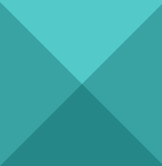
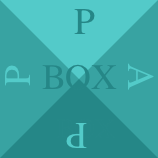
New Version

diff --git a/www/index.html b/www/index.html
@@ -5,7 +5,7 @@
 <!--<![endif]-->
 <head>
 	<meta charset="utf-8" />
-	<title>Color Admin | One Page Parallax Front End Theme</title>
+	<title>PAPA BOX | PATERNITY SERVICES</title>
 	<meta content="width=device-width, initial-scale=1.0, maximum-scale=1.0, user-scalable=no" name="viewport" />
 	<meta content="" name="description" />
 	<meta content="" name="author" />
@@ -41,7 +41,7 @@
                     <a href="index.html" class="navbar-brand">
                         <span class="brand-logo"></span>
                         <span class="brand-text">
-                            <span class="text-theme">Color</span> Admin
+                            <span class="text-theme">PAPA</span> BOX
                         </span>
                     </a>
                 </div>
@@ -82,11 +82,11 @@
             <!-- end content-bg -->
             <!-- begin container -->
             <div class="container home-content">
-                <h1>Welcome to Color Admin</h1>
-                <h3>Multipurpose One Page Theme</h3>
+                <h1>Welcome to PAPA BOX</h1>
+                <h3>Paternity Simplified</h3>
                 <p>
-                    We have created a multi-purpose theme that take the form of One-Page or Multi-Page Version.<br />
-                    Use our <a href="#">theme panel</a> to select your favorite theme color.
+                        We have created a multi purpous solution that let you care about what is most important for you .<br>
+                    Check our <a href="#">solutions panel</a> to benefit of our PAPA BOXES.
                 </p>
                 <a href="#" class="btn btn-theme">Explore More</a> <a href="#" class="btn btn-outline">Purchase Now</a><br />
                 <br />
@@ -102,8 +102,8 @@
             <div class="container" data-animation="true" data-animation-type="fadeInDown">
                 <h2 class="content-title">About Us</h2>
                 <p class="content-desc">
-                    Lorem ipsum dolor sit amet, consectetur adipiscing elit. Vestibulum consectetur eros dolor,<br />
-                    sed bibendum turpis luctus eget
+                    We are a company that aims to connect people with services, in order to permit them to benefit of a high end quality services, with the most interesting price possible,<br>
+                    that saves your money, and your time to let you concentrate on what it's most important for you.
                 </p>
                 <!-- begin row -->
                 <div class="row">
@@ -113,18 +113,7 @@
                         <div class="about">
                             <h3>Our Story</h3>
                             <p>
-                                Lorem ipsum dolor sit amet, consectetur adipiscing elit. 
-                                Vestibulum posuere augue eget ante porttitor fringilla. 
-                                Aliquam laoreet, sem eu dapibus congue, velit justo ullamcorper urna, 
-                                non rutrum dolor risus non sapien. Vivamus vel tincidunt quam. 
-                                Donec ultrices nisl ipsum, sed elementum ex dictum nec. 
-                            </p>
-                            <p>
-                                In non libero at orci rutrum viverra at ac felis. 
-                                Curabitur a efficitur libero, eu finibus quam. 
-                                Pellentesque pretium ante vitae est molestie, ut faucibus tortor commodo. 
-                                Donec gravida, eros ac pretium cursus, est erat dapibus quam, 
-                                sit amet dapibus nisl magna sit amet orci. 
+                               Ambitious group of engineers that aims to transform how the society works. And let them concentrate on what it's most important for them.
                             </p>
                         </div>
                         <!-- end about -->
@@ -137,16 +126,15 @@
                         <div class="about-author">
                             <div class="quote bg-silver">
                                 <i class="fa fa-quote-left"></i>
-                                <h3>We work harder,<br /><span>to let our user keep simple</span></h3>
+                                <h3>
+                            <br><span> Get the Quality service you deserve, with the most accurate cost that you can afford.</span></h3>
                                 <i class="fa fa-quote-right"></i>
                             </div>
                             <div class="author">
                                 <div class="image">
                                     <img src="assets/img/user/user-1.jpg" alt="Sean Ngu" />
                                 </div>
-                                <div class="info">
-                                    Sean Ngu
-                                    <small>Front End Developer</small>
+                                <div class="info">Soufiane CHERRADI<small>Co-Founder</small>
                                 </div>
                             </div>
                         </div>
@@ -155,7 +143,7 @@
                     <!-- end col-4 -->
                     <!-- begin col-4 -->
                     <div class="col-md-4 col-sm-12">
-                        <h3>Our Experience</h3>
+                        <h3>Our Expertise</h3>
                         <!-- begin skills -->
                         <div class="skills">
                             <div class="skills-name">Front End</div>
@@ -262,7 +250,7 @@
                                 <img src="assets/img/user/user-1.jpg" alt="Ryan Teller" />
                             </div>
                             <div class="info">
-                                <h3 class="name">Ryan Teller</h3>
+                                <h3 class="name">Soufiane CHERRADI</h3>
                                 <div class="title text-theme">FOUNDER</div>
                                 <p>Lorem ipsum dolor sit amet, consectetuer adipiscing elit. Aenean commodo ligula eget dolor.</p>
                                 <div class="social">
@@ -283,7 +271,7 @@
                                 <img src="assets/img/user/user-2.jpg" alt="Jonny Cash" />
                             </div>
                             <div class="info">
-                                <h3 class="name">Johnny Cash</h3>
+                                <h3 class="name">JEAN-NOEL PAILLARD</h3>
                                 <div class="title text-theme">WEB DEVELOPER</div>
                                 <p>Donec quam felis, ultricies nec, pellentesque eu sem. Nulla consequat massa quis enim.</p>
                                 <div class="social">
@@ -291,28 +279,7 @@
                                     <a href="#"><i class="fa fa-twitter fa-lg fa-fw"></i></a>
                                     <a href="#"><i class="fa fa-google-plus fa-lg fa-fw"></i></a>
                                 </div>
-                            </div>                     
-                        </div>
-                        <!-- end team -->
-                    </div>
-                    <!-- end col-4 -->
-                    <!-- begin col-4 -->
-                    <div class="col-md-4 col-sm-4">
-                        <!-- begin team -->
-                        <div class="team">             
-                            <div class="image" data-animation="true" data-animation-type="flipInX">
-                                <img src="assets/img/user/user-3.jpg" alt="Mia Donovan" />
-                            </div>
-                            <div class="info">
-                                <h3 class="name">Mia Donovan</h3>
-                                <div class="title text-theme">WEB DESIGNER</div>
-                                <p>Phasellus viverra nulla ut metus varius laoreet. Quisque rutrum. Aenean imperdiet. </p>
-                                <div class="social">
-                                    <a href="#"><i class="fa fa-facebook fa-lg fa-fw"></i></a>
-                                    <a href="#"><i class="fa fa-twitter fa-lg fa-fw"></i></a>
-                                    <a href="#"><i class="fa fa-google-plus fa-lg fa-fw"></i></a>
-                                </div>
-                            </div>                     
+                            </div>                           
                         </div>
                         <!-- end team -->
                     </div>
@@ -337,10 +304,9 @@
                 <div class="row">
                     <!-- begin col-12 -->
                     <div class="col-md-12 quote">
-                        <i class="fa fa-quote-left"></i> Passion leads to design, design leads to performance, <br />
-                        performance leads to <span class="text-theme">success</span>!  
+                        <i class="fa fa-quote-left"></i> When you have a new born, you need to be close to your child rather than wasting time on things that are not very important at this exact time... So, we do the Job for you. <br><span class="text-theme">Cerenity Garanteed.</span>!  
                         <i class="fa fa-quote-right"></i>
-                        <small>Sean Themes, Developer Teams in Malaysia</small>
+                        <small>Jean-Noel PAILLARD.</small>
                     </div>
                     <!-- end col-12 -->
                 </div>
@@ -366,8 +332,8 @@
                         <div class="service">
                             <div class="icon bg-theme" data-animation="true" data-animation-type="bounceIn"><i class="fa fa-cog"></i></div>
                             <div class="info">
-                                <h4 class="title">Easy to Customize</h4>
-                                <p class="desc">Duis in lorem placerat, iaculis nisi vitae, ultrices tortor. Vestibulum molestie ipsum nulla. Maecenas nec hendrerit eros, sit amet maximus leo.</p>
+                                <h4 class="title">Paternity Advice.</h4>
+                                <p class="desc">We give you all the advices that you need when you have a new born. </p>
                             </div>
                         </div>
                     </div>
@@ -377,7 +343,7 @@
                         <div class="service">
                             <div class="icon bg-theme" data-animation="true" data-animation-type="bounceIn"><i class="fa fa-paint-brush"></i></div>
                             <div class="info">
-                                <h4 class="title">Clean & Careful Design</h4>
+                                <h4 class="title">Notifications and Alerts</h4>
                                 <p class="desc">Etiam nulla turpis, gravida et orci ac, viverra commodo ipsum. Donec nec mauris faucibus, congue nisi sit amet, lobortis arcu.</p>
                             </div>
                         </div>
@@ -388,7 +354,7 @@
                         <div class="service">
                             <div class="icon bg-theme" data-animation="true" data-animation-type="bounceIn"><i class="fa fa-file"></i></div>
                             <div class="info">
-                                <h4 class="title">Well Documented</h4>
+                                <h4 class="title">Administration Processes</h4>
                                 <p class="desc">Ut vel laoreet tortor. Donec venenatis ex velit, eget bibendum purus accumsan cursus. Curabitur pulvinar iaculis diam.</p>
                             </div>
                         </div>
@@ -403,7 +369,7 @@
                         <div class="service">
                             <div class="icon bg-theme" data-animation="true" data-animation-type="bounceIn"><i class="fa fa-code"></i></div>
                             <div class="info">
-                                <h4 class="title">Re-usable Code</h4>
+                                <h4 class="title">Nurse Services</h4>
                                 <p class="desc">Aenean et elementum dui. Aenean massa enim, suscipit ut molestie quis, pretium sed orci. Ut faucibus egestas mattis.</p>
                             </div>
                         </div>
@@ -414,7 +380,7 @@
                         <div class="service">
                             <div class="icon bg-theme" data-animation="true" data-animation-type="bounceIn"><i class="fa fa-shopping-cart"></i></div>
                             <div class="info">
-                                <h4 class="title">Online Shop</h4>
+                                <h4 class="title">Delivery services</h4>
                                 <p class="desc">Quisque gravida metus in sollicitudin feugiat. Class aptent taciti sociosqu ad litora torquent per conubia nostra, per inceptos himenaeos.</p>
                             </div>
                         </div>
@@ -425,7 +391,7 @@
                         <div class="service">
                             <div class="icon bg-theme" data-animation="true" data-animation-type="bounceIn"><i class="fa fa-heart"></i></div>
                             <div class="info">
-                                <h4 class="title">Free Support</h4>
+                                <h4 class="title">Baby Stuff</h4>
                                 <p class="desc">Integer consectetur, massa id mattis tincidunt, sapien erat malesuada turpis, nec vehicula lacus felis nec libero. Fusce non lorem nisl.</p>
                             </div>
                         </div>
@@ -677,100 +643,93 @@
         </div>
         <!-- end #client -->
         
-        <!-- begin #pricing -->
+      <!-- begin #pricing -->
         <div id="pricing" class="content" data-scrollview="true">
             <!-- begin container -->
             <div class="container">
                 <h2 class="content-title">Our Price</h2>
                 <p class="content-desc">
-                    Lorem ipsum dolor sit amet, consectetur adipiscing elit. Vestibulum consectetur eros dolor,<br />
+                    Lorem ipsum dolor sit amet, consectetur adipiscing elit. Vestibulum consectetur eros dolor,<br>
                     sed bibendum turpis luctus eget
                 </p>
                 <!-- begin pricing-table -->
                 <ul class="pricing-table col-4">
-                    <li data-animation="true" data-animation-type="fadeInUp">
+                    <li data-animation="true" data-animation-type="fadeInUp" class="fadeInUp contentAnimated finishAnimated">
                         <div class="pricing-container">
-                            <h3>Starter</h3>
+                            <h3>Entry Pack</h3>
                             <div class="price">
                                 <div class="price-figure">
-                                    <span class="price-number">FREE</span>
+                                    <span class="price-number">49 €</span>
                                 </div>
                             </div>
                             <ul class="features">
-                                <li>1GB Storage</li>
-                                <li>2 Clients</li>
-                                <li>5 Active Projects</li>
-                                <li>5 Colors</li>
+                                <li>Advice</li>
+                                <li>Administration</li>
+                                <li>3 times medicines Delivery.</li>
+                                <li>1 times Food Delivery</li>
                                 <li>Free Goodies</li>
                                 <li>24/7 Email support</li>
                             </ul>
                             <div class="footer">
-                                <a href="#" class="btn btn-inverse btn-block">Buy Now</a>
+                                <a href="file:///Users/StanisCOURREGES2/Desktop/caducee/PAPABOX/www/index.html#" class="btn btn-inverse btn-block">Buy Now</a>
                             </div>
                         </div>
                     </li>
-                    <li data-animation="true" data-animation-type="fadeInUp">
+                    <li data-animation="true" data-animation-type="fadeInUp" class="fadeInUp contentAnimated finishAnimated">
                         <div class="pricing-container">
-                            <h3>Basic</h3>
+                            <h3>Medium</h3>
                             <div class="price">
                                 <div class="price-figure">
-                                    <span class="price-number">$9.99</span>
-                                    <span class="price-tenure">per month</span>
+                                    <span class="price-number">149€</span>
+                                    <span class="price-tenure">4 days</span>
                                 </div>
                             </div>
                             <ul class="features">
-                                <li>2GB Storage</li>
-                                <li>5 Clients</li>
-                                <li>10 Active Projects</li>
-                                <li>10 Colors</li>
-                                <li>Free Goodies</li>
+                                <li>Advices, Notifications and Alerts</li>
+                                <li>10 times Medicines delivery</li>
+                                <li>5 times Food Delivery</li>
+                                <li>1 laundry service</li>
+                                <li>Administration</li>
                                 <li>24/7 Email support</li>
                             </ul>
                             <div class="footer">
-                                <a href="#" class="btn btn-inverse btn-block">Buy Now</a>
+                                <a href="file:///Users/StanisCOURREGES2/Desktop/caducee/PAPABOX/www/index.html#" class="btn btn-inverse btn-block">Buy Now</a>
                             </div>
                         </div>
                     </li>
-                    <li class="highlight" data-animation="true" data-animation-type="fadeInUp">
+                    <li class="highlight fadeInUp contentAnimated finishAnimated" data-animation="true" data-animation-type="fadeInUp">
                         <div class="pricing-container">
                             <h3>Premium</h3>
                             <div class="price">
                                 <div class="price-figure">
-                                    <span class="price-number">$19.99</span>
-                                    <span class="price-tenure">per month</span>
+                                    <span class="price-number">249€</span>
+                                    <span class="price-tenure">1 week</span>
                                 </div>
                             </div>
                             <ul class="features">
-                                <li>5GB Storage</li>
-                                <li>10 Clients</li>
-                                <li>20 Active Projects</li>
-                                <li>20 Colors</li>
-                                <li>Free Goodies</li>
+                                <li>Advices, Notifications and Alerts</li>
+                                <li>Unlimited Medicines Delivery</li>
+                                <li>High quality food. 10 deliveries.</li>
+                                <li>Nurse services.</li>
+                                <li>2 Laundry services</li>
                                 <li>24/7 Email support</li>
                             </ul>
                             <div class="footer">
-                                <a href="#" class="btn btn-theme btn-block">Buy Now</a>
+                                <a href="file:///Users/StanisCOURREGES2/Desktop/caducee/PAPABOX/www/index.html#" class="btn btn-theme btn-block">Buy Now</a>
                             </div>
                         </div>
                     </li>
-                    <li data-animation="true" data-animation-type="fadeInUp">
+                    <li data-animation="true" data-animation-type="fadeInUp" class="fadeInUp contentAnimated finishAnimated">
                         <div class="pricing-container">
-                            <h3>Lifetime</h3>
+                            <h3>Card Choice</h3>
                             <div class="price">
                                 <div class="price-figure">
-                                    <span class="price-number">$999</span>
+                                    <span class="price-number">Contact us for more info.</span>
                                 </div>
                             </div>
-                            <ul class="features">
-                                <li>Unlimited Storage</li>
-                                <li>Unlimited Clients</li>
-                                <li>Unlimited Projects</li>
-                                <li>Unlimited Colors</li>
-                                <li>Free Goodies</li>
-                                <li>24/7 Email support</li>
-                            </ul>
+                            
                             <div class="footer">
-                                <a href="#" class="btn btn-inverse btn-block">Buy Now</a>
+                                <a href="file:///Users/StanisCOURREGES2/Desktop/caducee/PAPABOX/www/index.html#" class="btn btn-inverse btn-block">Buy Now</a>
                             </div>
                         </div>
                     </li>
@@ -779,6 +738,7 @@
             <!-- end container -->
         </div>
         <!-- end #pricing -->
+
         
         <!-- begin #contact -->
         <div id="contact" class="content bg-silver-lighter" data-scrollview="true">
@@ -786,8 +746,7 @@
             <div class="container">
                 <h2 class="content-title">Contact Us</h2>
                 <p class="content-desc">
-                    Lorem ipsum dolor sit amet, consectetur adipiscing elit. Vestibulum consectetur eros dolor,<br />
-                    sed bibendum turpis luctus eget
+                        y'a plus qu'à,
                 </p>
                 <!-- begin row -->
                 <div class="row">
@@ -851,11 +810,11 @@
             <div class="container">
                 <div class="footer-brand">
                     <div class="footer-brand-logo"></div>
-                    Color Admin
+                    PAPA BOX
                 </div>
                 <p>
-                    &copy; Copyright Color Admin 2017 <br />
-                    An admin & front end theme with serious impact. Created by <a href="#">SeanTheme</a>
+                    &copy; © Copyright PAPA BOX 2018 <br>
+                    The Quality Service that you need. 
                 </p>
                 <p class="social-list">
                     <a href="#"><i class="fa fa-facebook fa-fw"></i></a>
